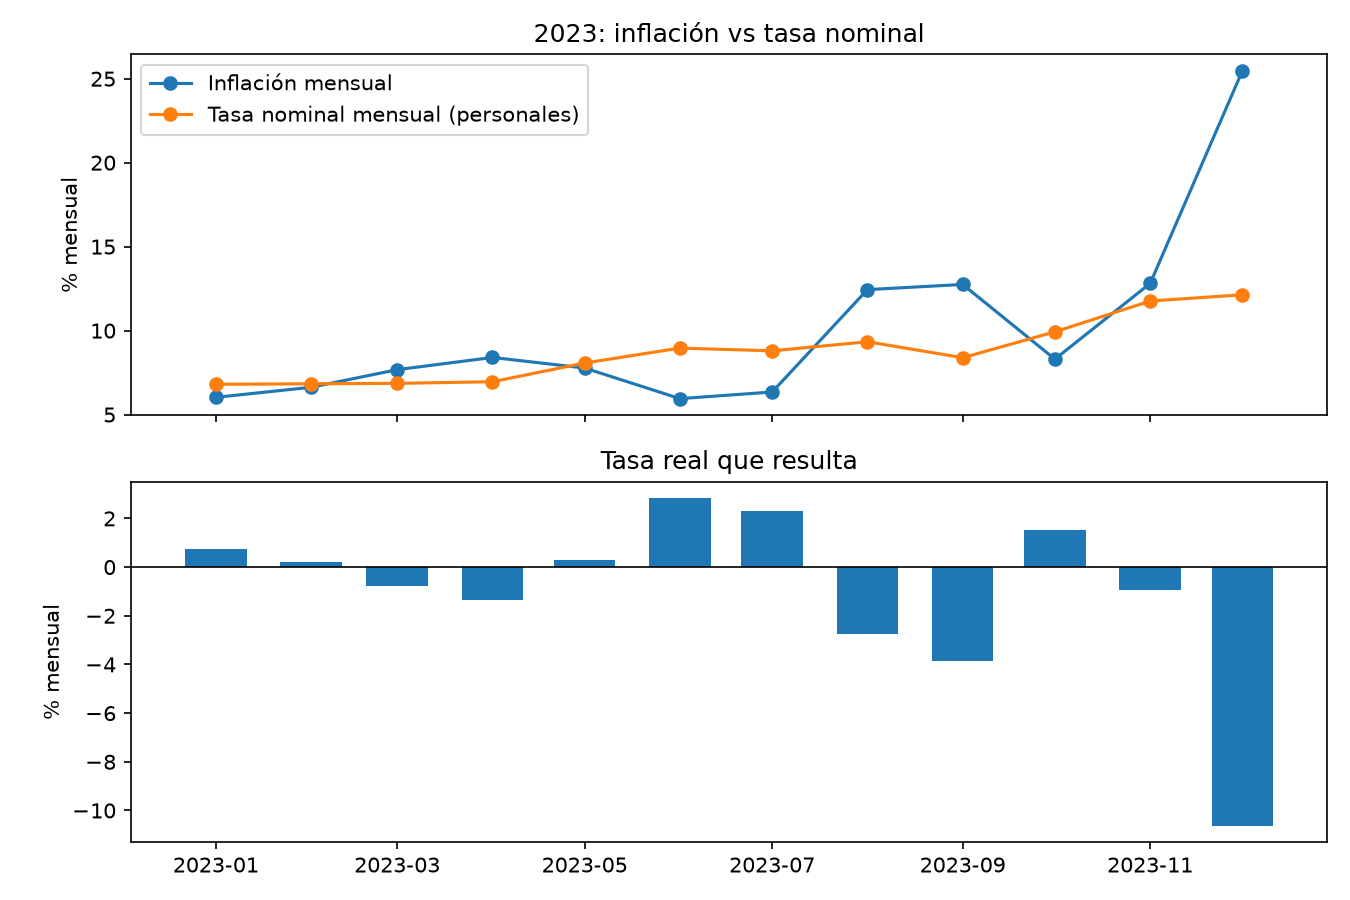
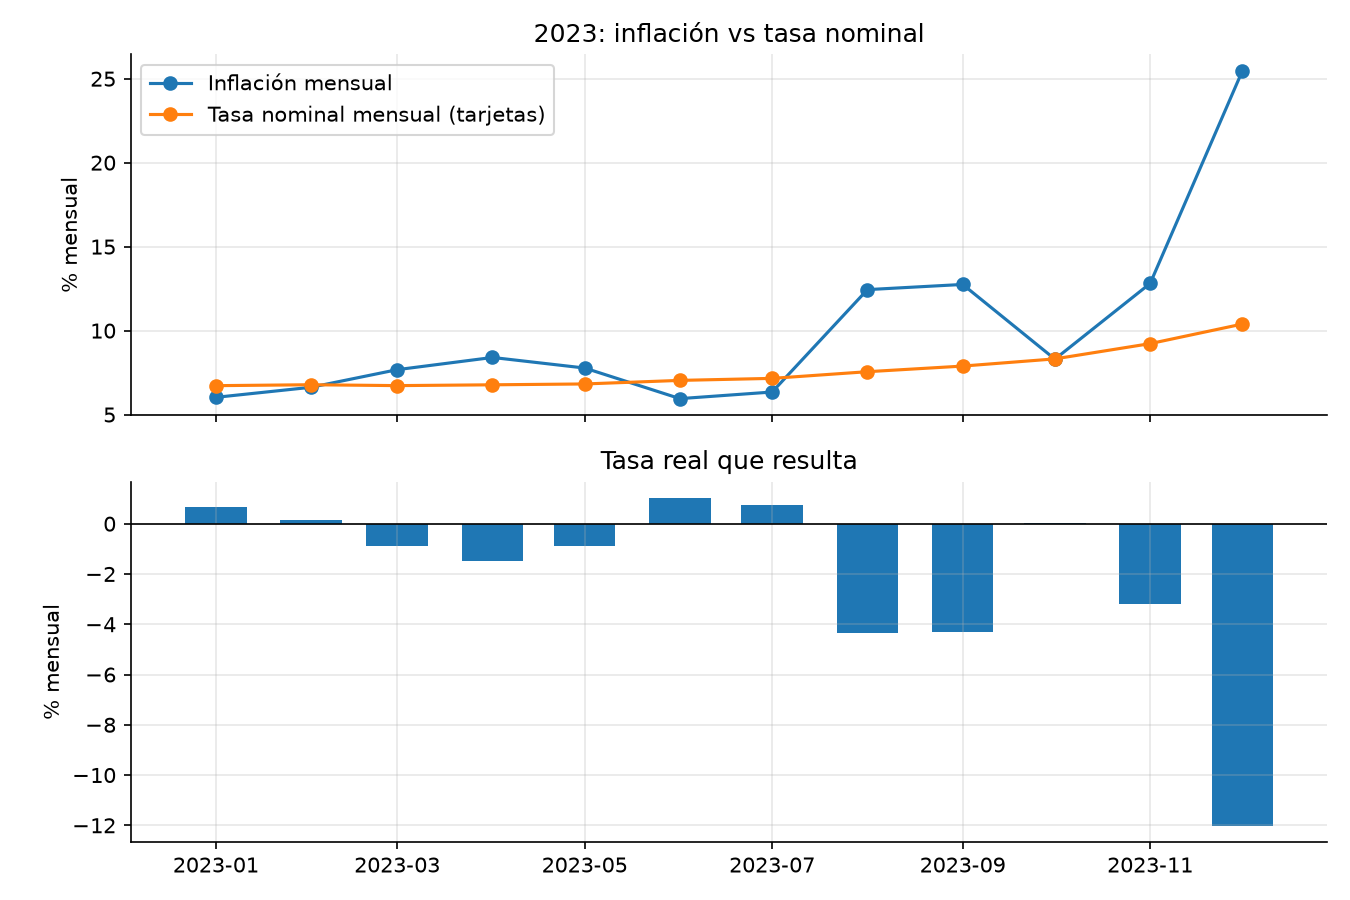
Analizar solo tarjetas de crédito

diff --git a/scripts/02_analisis_basico.py b/scripts/02_analisis_basico.py
@@ -1,6 +1,6 @@
 """
 02_analisis_basico.py: nivel 1, estadística descriptiva.
-Media y desvío de las 5 variables finales, muestra completa y por subperíodo,
+Media y desvío de las 4 variables finales, muestra completa y por subperíodo,
 y el detalle de 2023 (inflación contra tasa nominal).
 
 Salidas: resultados/tablas/resumen_por_periodo.csv, resultados/graficos/grafico_2023.png
@@ -33,17 +33,17 @@ print(resumen.round(2))
 resumen.round(4).to_csv(ruta_tabla("resumen_por_periodo.csv"), encoding="utf-8-sig")
 
 # ---------- Qué pasó en 2023 ----------
-d23 = df.loc["2023-01":"2023-12", ["pi", "i_personales", "r_personales"]] * 100
+d23 = df.loc["2023-01":"2023-12", ["pi", "i_tarjetas", "r_tarjetas"]] * 100
 print("\n--- 2023 mes a mes (%) ---")
 print(d23.round(2))
 
 fig, (ax1, ax2) = plt.subplots(2, 1, figsize=(9, 6), sharex=True)
 ax1.plot(d23.index, d23["pi"], marker="o", label="Inflación mensual")
-ax1.plot(d23.index, d23["i_personales"], marker="o", label="Tasa nominal mensual (personales)")
+ax1.plot(d23.index, d23["i_tarjetas"], marker="o", label="Tasa nominal mensual (tarjetas)")
 ax1.set_ylabel("% mensual")
 ax1.legend()
 ax1.set_title("2023: inflación vs tasa nominal")
-ax2.bar(d23.index, d23["r_personales"], width=20)
+ax2.bar(d23.index, d23["r_tarjetas"], width=20)
 ax2.axhline(0, color="black", linewidth=0.8)
 ax2.set_ylabel("% mensual")
 ax2.set_title("Tasa real que resulta")

diff --git a/scripts/01_construir_panel.py b/scripts/01_construir_panel.py
@@ -38,7 +38,7 @@ IS.columns = ["priv_reg", "publico", "no_reg"]
 dIS = IS.pct_change()
 
 # --- Unir por mes y calcular tasas reales (Fisher) ---
-df = pd.concat([pi, i_m.add_prefix("i_"), dIS.add_prefix("w_")], axis=1).loc["2017-01-01":"2026-07-01"].dropna()
+df = pd.concat([pi, i_m.add_prefix("i_"), dIS.add_prefix("w_")], axis=1, sort=True).loc["2017-01-01":"2026-07-01"].dropna()
 for p in ["personales", "tarjetas"]:
     df[f"r_{p}"] = (1 + df[f"i_{p}"]) / (1 + df["pi"]) - 1
 for s in ["priv_reg", "publico", "no_reg"]:

diff --git a/scripts/inicio.py b/scripts/inicio.py
@@ -80,7 +80,7 @@ plt.rcParams.update({
 })
 
 # ---------------- Variables del análisis ----------------
-COLS = ["r_personales", "r_tarjetas", "g_priv_reg", "g_publico", "g_no_reg"]
+COLS = ["r_tarjetas", "g_priv_reg", "g_publico", "g_no_reg"]
 SEGMENTOS = ["priv_reg", "publico", "no_reg"]
 
 NOMBRES = {
